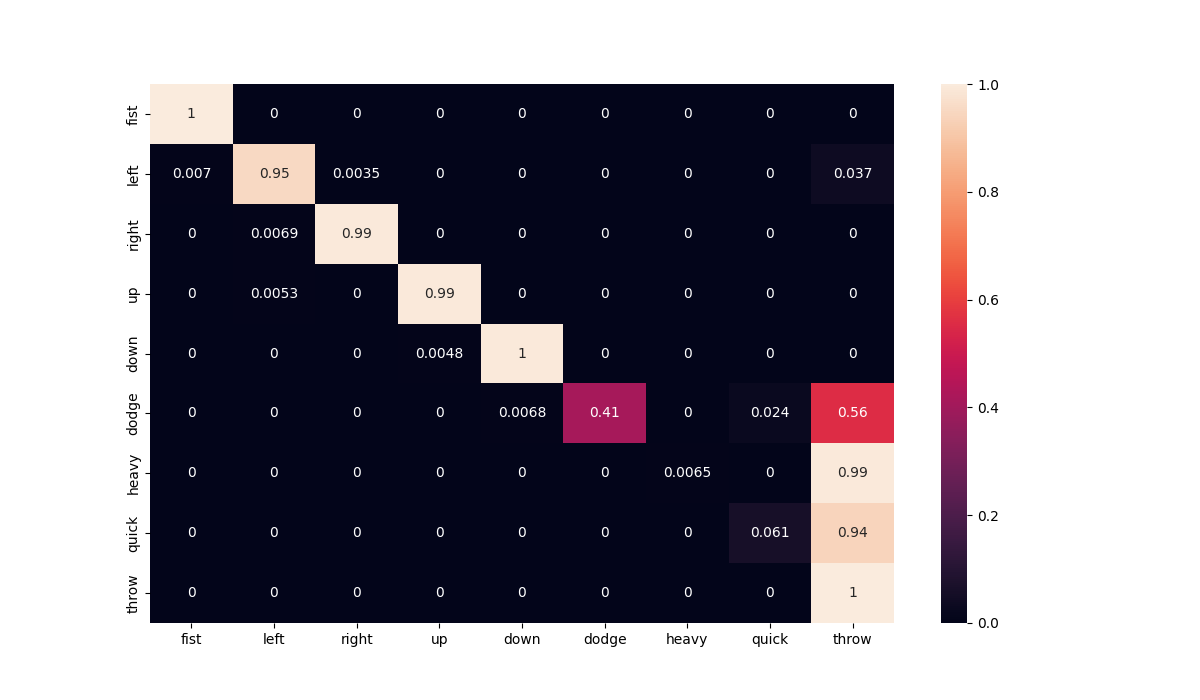
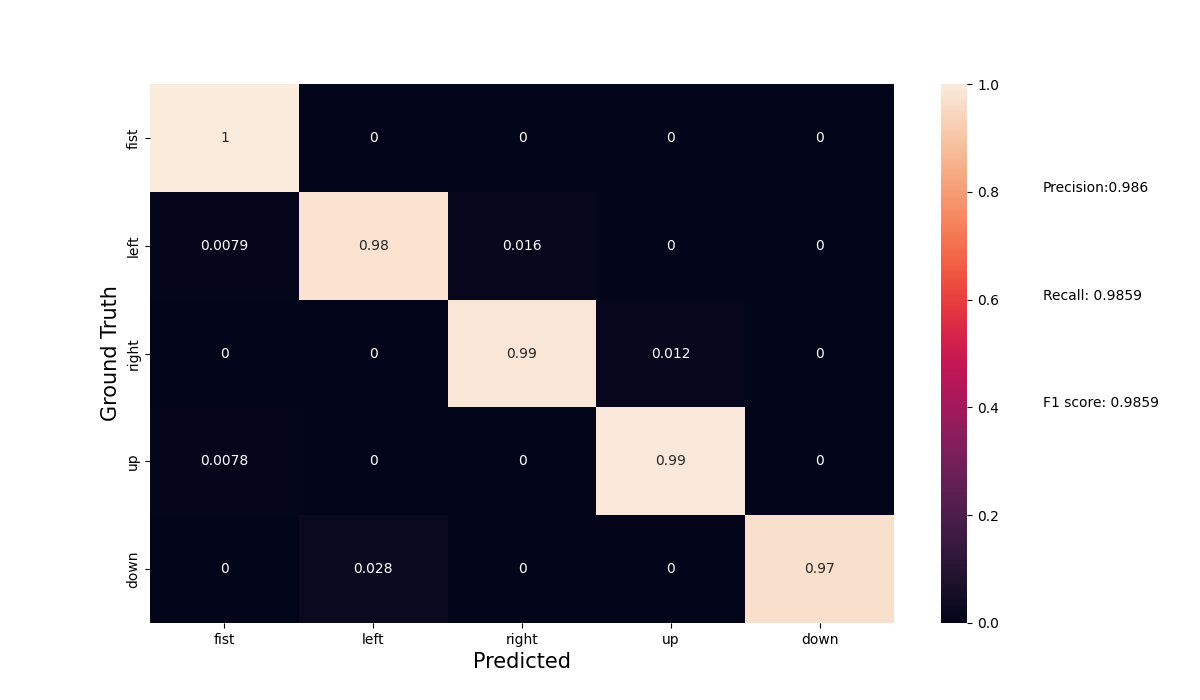
idk where my testing features are so im putting them here

diff --git a/source/train/build_RNN.py b/source/train/build_RNN.py
@@ -3,10 +3,7 @@
 import torch
 import torch.nn as nn
 from torch.utils.data import Dataset, DataLoader
-import numpy as np
-import matplotlib.pyplot as plt
 import csv
-import pandas as pd
 from torchsummary import summary
 import os
 from hand_dataset import HandDataset
@@ -17,16 +14,16 @@ dname = os.path.dirname(abspath)
 os.chdir(dname)
 
 
-test_data_filename = "test_dataset/minecraft_motion.csv"
-data_filename = "training_data/brawl.csv"
-model_name = "output_model/brawl.pth"
+test_data_filename = None
+data_filename = "training_data/tetris.csv"
+model_name = "output_model/tetris.pth"
 num_epochs = 5
 batch_size = 100
 learning_rate = 0.001
-WEIGHTED_SAMPLE = True
-ROTATE_DATA_SET = True
+WEIGHTED_SAMPLE = False
+ROTATE_DATA_SET = False
 ROTATE_DEGREES = 15
-
+ANIMATE = False
 
 # Device configuration
 # https://stackoverflow.com/questions/48152674/how-do-i-check-if-pytorch-is-using-the-gpu
@@ -55,41 +52,49 @@ with open(data_filename, "r", newline="", encoding="utf-8") as dataset_file:
 print(true_labels)
 print("building dataset")
 
-dataset = HandDataset(data_filename, num_classes, sequence_length, input_size, rotate=ROTATE_DATA_SET, degrees=ROTATE_DEGREES)
+dataset = HandDataset(
+    data_filename,
+    num_classes,
+    sequence_length,
+    input_size,
+    rotate=ROTATE_DATA_SET,
+    degrees=ROTATE_DEGREES,
+)
 
 print("dataset built")
 
 [
-    print(
-        "{:<15}".format(true_labels[index])
-        + f"count:{count}"
-    )
+    print("{:<15}".format(true_labels[index]) + f"count:{count}")
     for index, count in enumerate(dataset.label_counts)
 ]
+try:
+    train_dataset, test_dataset = torch.utils.data.random_split(
+        dataset, [int(dataset.__len__() * 0.8), int(dataset.__len__() * 0.2)]
+    )
+except:
+    train_dataset, test_dataset = torch.utils.data.random_split(
+        dataset, [int(dataset.__len__() * 0.8), int(dataset.__len__() * 0.2) + 1]
+    )
+
 if WEIGHTED_SAMPLE:
     sampler = WeightedRandomSampler(
         weights=dataset.sample_weights, num_samples=len(dataset), replacement=True
     )
-    #its difficult to random split and do weighted random sample so test and train are the same data
     train_loader = DataLoader(
-        sampler=sampler, dataset=dataset, batch_size=batch_size
+        dataset=train_dataset, batch_size=batch_size, sampler=sampler
     )
-    test_loader = DataLoader(dataset=dataset, batch_size=batch_size, shuffle=True)
 else:
-    if len(dataset)%2==0:
-        plus1 = 0
-    else:
-        plus1=0
-    train_dataset, test_dataset = torch.utils.data.random_split(
-        dataset, [int(dataset.__len__() * 0.8), int(dataset.__len__() * 0.2) + plus1]
-    )
     train_loader = DataLoader(
         dataset=train_dataset, batch_size=batch_size, shuffle=True
     )
-    test_loader = DataLoader(dataset=test_dataset, batch_size=batch_size, shuffle=True)
+test_loader = DataLoader(dataset=test_dataset, batch_size=batch_size, shuffle=True)
 
-import animate
-animate.play(train_loader)
+
+if ANIMATE:
+    import animate
+
+    animate.play(train_loader)
+
 
 class LSTM(nn.Module):
 
@@ -129,16 +134,10 @@ class LSTM(nn.Module):
         return out
 
 
-import warnings
-
-warnings.filterwarnings("ignore")
-
-
 lstm = LSTM(num_classes, input_size, hidden_size, num_layers).to(device)
-example = LSTM(num_classes, input_size, hidden_size, num_layers).to(device)
-example.to(device)
+
 # Use torchinfo to display the model summary
-summary(example)
+summary(lstm)
 
 # Loss and optimizer
 criterion = nn.CrossEntropyLoss()
@@ -182,17 +181,6 @@ torch.save(
 )
 print(f"model saved as {model_name}")
 
-# Test the model
-from sklearn.metrics import confusion_matrix
-import seaborn as sn
-import pandas as pd
+import test_model
 
-
-import test_RNN
-if WEIGHTED_SAMPLE:
-    if test_data_filename:
-        test_dataset = HandDataset(test_data_filename, num_classes, sequence_length, input_size, rotate=False)
-        test_loader = test_loader = DataLoader(dataset=test_dataset, batch_size=batch_size, shuffle=True)
-    test_RNN.test(test_loader, device, lstm, true_labels)
-else:
-    test_RNN.test(test_loader, device, lstm, true_labels)
+test_model.test(test_loader, device, lstm, true_labels)

diff --git a/source/train/TrainFF.py b/source/train/TrainFF.py
@@ -24,7 +24,7 @@ hidden_size = 150
 num_epochs = 20
 batch_size = 100
 learning_rate = 0.001
-filename = "wave"
+filename = "tetris"
 labels_list = None
 
 num_classes = 0
@@ -164,43 +164,5 @@ with torch.no_grad():
         f"Accuracy of the network on {int(dataset.__len__())+1} training dataset: {round(acc,3)} %"
     )
 
-from sklearn.metrics import confusion_matrix
-import seaborn as sn
-import pandas as pd
-
-y_pred = []
-y_true = []
-
-# Test the model
-# In test phase, we don't need to compute gradients (for memory efficiency)
-with torch.no_grad():
-    n_correct = 0
-    n_samples = 0
-    for hands, labels in test_loader:
-        hands = hands.to(device)
-        labels = labels.to(device)
-        outputs = model(hands)
-        output = (torch.max(torch.exp(outputs), 1)[1]).data.cpu().numpy()
-        y_pred.extend(output)  # Save Prediction
-
-        labels = labels.data.cpu().numpy()
-        y_true.extend(labels)  # Save Truth
-
-torch.save(
-    (model.state_dict(), [input_size, hidden_size, num_classes, labels_list]),
-    filename+".pth",
-)
-
-# Build confusion matrix
-cf_matrix = confusion_matrix(y_true, y_pred)
-df_cm = pd.DataFrame(
-    cf_matrix / np.sum(cf_matrix, axis=1)[:, None],
-    index=[i for i in labels_list],
-    columns=[i for i in labels_list],
-)
-plt.figure(figsize=(12, 7))
-sn.heatmap(df_cm, annot=True)
-
-plt.savefig(filename + "FF.png")
-plt.show()
-
+import test_model
+test_model.test(test_loader, device, model, labels_list)

diff --git a/source/train/test_model.py b/source/train/test_model.py
@@ -8,7 +8,7 @@ import numpy as np
 
 # Test the model
 # In test phase, we don't need to compute gradients (for memory efficiency)
-def test(test_loader, device, lstm, true_labels):
+def test(test_loader, device, model, true_labels):
     y_pred = []
     y_true = []
     with torch.no_grad():
@@ -17,7 +17,7 @@ def test(test_loader, device, lstm, true_labels):
         for hands, labels in test_loader:
             hands = hands.to(device)
             labels = labels.to(device)
-            outputs = lstm(hands)
+            outputs = model(hands)
             output = (torch.max(torch.exp(outputs), 1)[1]).data.cpu().numpy()
             y_pred.extend(output)  # Save Prediction
 
@@ -42,9 +42,11 @@ def test(test_loader, device, lstm, true_labels):
     plt.figure(figsize=(12, 7))
     sn.heatmap(df_cm, annot=True)
     
-    plt.text(11,1,f"Precision:{round(precision,4)}")
-    plt.text(11,2,f"Recall: {round(recall,4)}")
-    plt.text(11,3,f"F1 score: {round(f1_score,4)}")
+    text_spacer = len(true_labels) + 1
+    
+    plt.text(text_spacer,1,f"Precision:{round(precision,4)}")
+    plt.text(text_spacer,2,f"Recall: {round(recall,4)}")
+    plt.text(text_spacer,3,f"F1 score: {round(f1_score,4)}")
     
     plt.ylabel("Ground Truth", fontsize = 15)
     plt.xlabel("Predicted", fontsize = 15)

diff --git a/source/train/finetune_RNN.py b/source/train/finetune_RNN.py
@@ -149,5 +149,5 @@ torch.save(
 )
 print(f"model saved as {output_model_name}")
 
-import test_RNN
-test_RNN.test(test_loader, device, lstm, true_labels)
+import source.train.test_model as test_model
+test_model.test(test_loader, device, lstm, true_labels)
